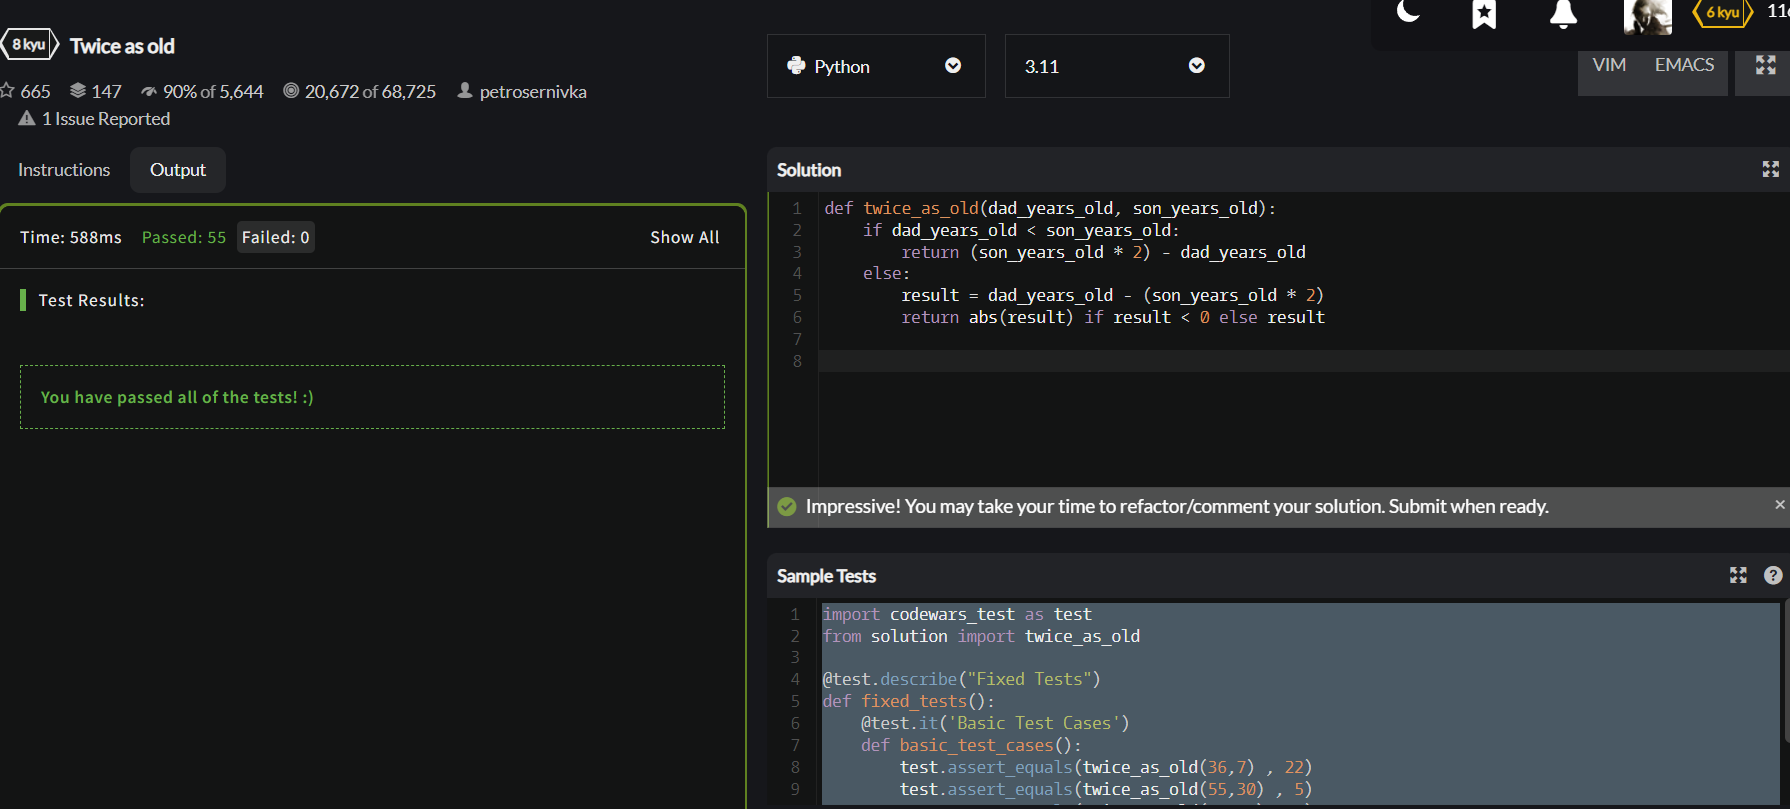
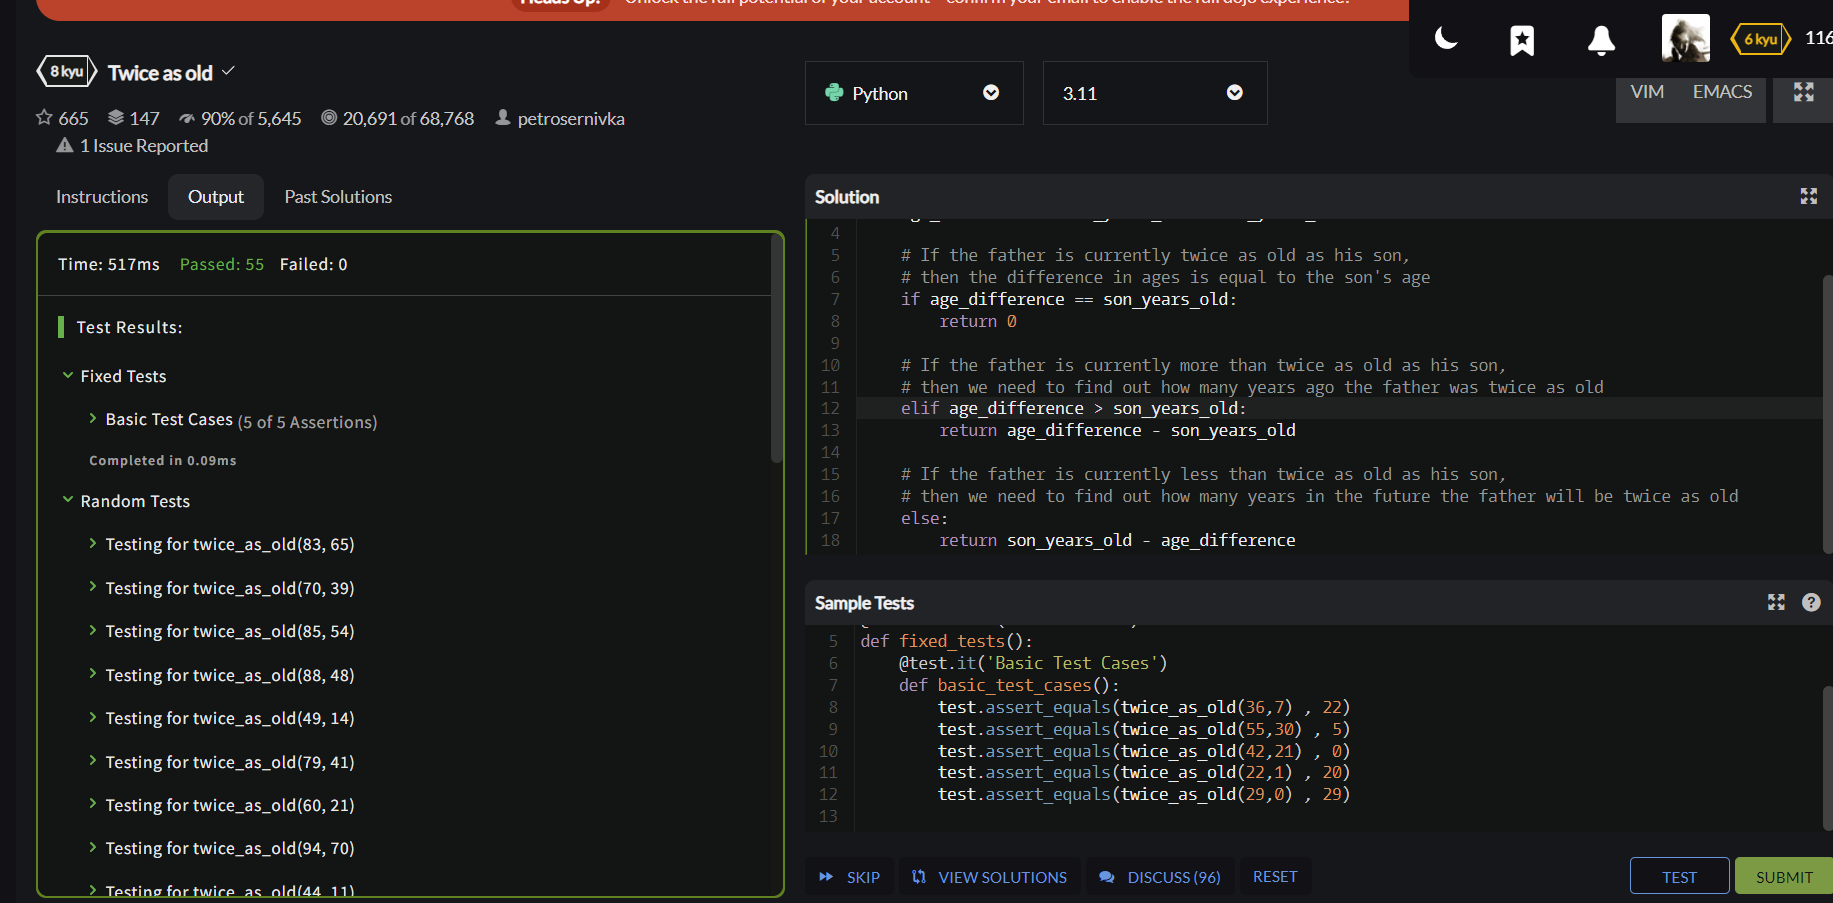
Addeed a link to the solution from blackbox

diff --git a/twice_as_old_8/solution_blackbox.py b/twice_as_old_8/solution_blackbox.py
@@ -1,6 +1,18 @@
 def twice_as_old(dad_years_old, son_years_old):
-    if dad_years_old < son_years_old:
-        return (son_years_old * 2) - dad_years_old
+    # Calculate the difference in ages
+    age_difference = dad_years_old - son_years_old
+
+    # If the father is currently twice as old as his son,
+    # then the difference in ages is equal to the son's age
+    if age_difference == son_years_old:
+        return 0
+
+    # If the father is currently more than twice as old as his son,
+    # then we need to find out how many years ago the father was twice as old
+    elif age_difference > son_years_old:
+        return age_difference - son_years_old
+
+    # If the father is currently less than twice as old as his son,
+    # then we need to find out how many years in the future the father will be twice as old
     else:
-        result = dad_years_old - (son_years_old * 2)
-        return abs(result) if result < 0 else result
+        return son_years_old - age_difference
